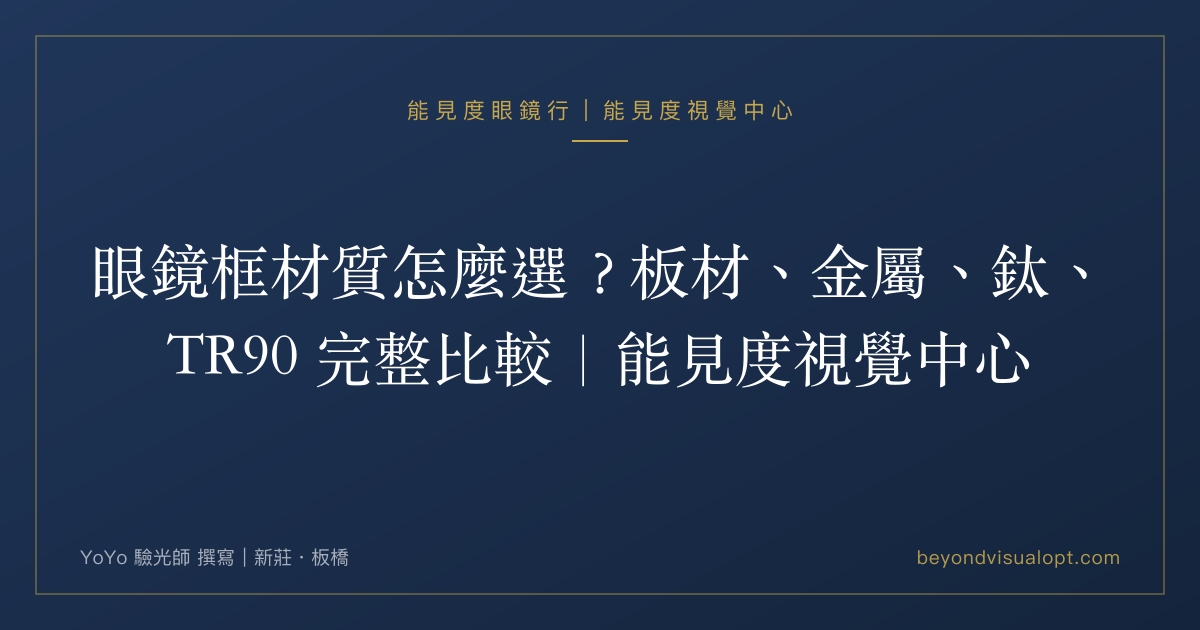
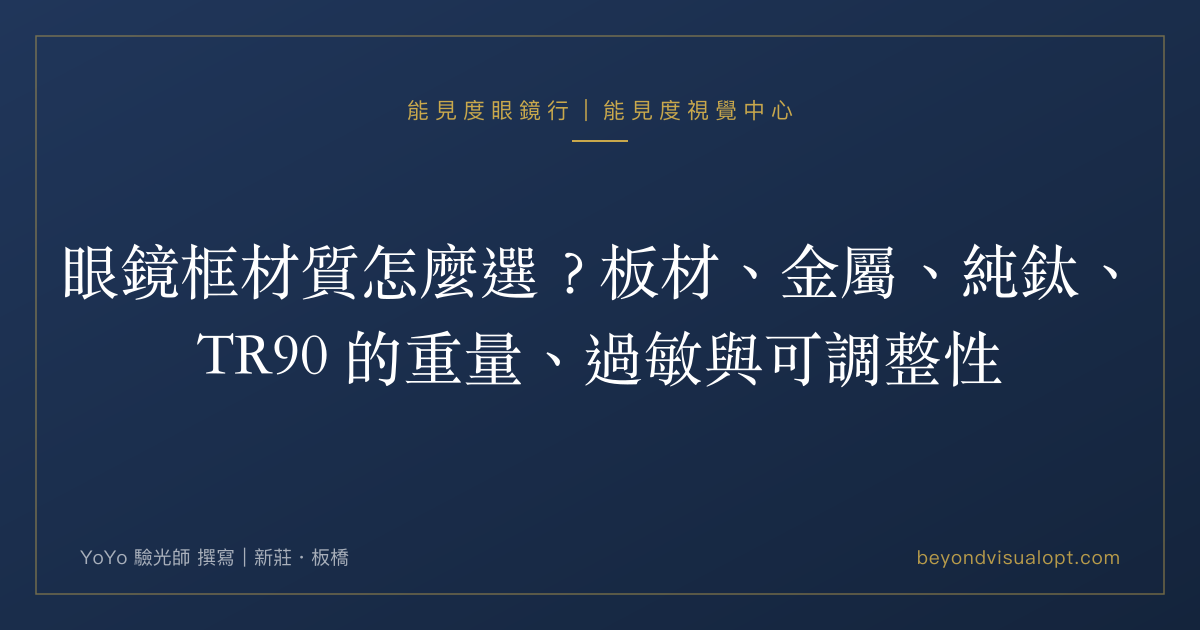
鏡框分類第 1 步：急修＋全站售後口徑統一（官網部→法務）
- 無框鑽孔篇 Cartier 一律標「顧客自帶」＋非代理聲明；/frames/ 品牌卡改「工藝與機能鏡框」不標產地（Sanjiaoti 為深圳品牌）
- 手工調整篇：兩店可互調、頂點距離 2mm 由「將近 25 度」更正為約 7 度（附公式）；seo-guide 同步更正
- 老闆 10-23：本店配的鼻墊螺絲、非本店配的調整一律「個別討論」；/faq/ 中英改寫；「不需要預約」全站刪除
- 「取件後的調整」統一為「取件後的鏡架調整不另外收費」；英文 free 殘留清除
- 中文 8 篇 FAQ 改 ### Q：格式；2 篇 H1 調整

Changed region(s): [[0.1233, 0.5127, 0.8633, 0.6333], [0.0308, 0.3921, 0.925, 0.4825]]

diff --git a/src/content/blog-en/frame-adjustment-handcraft.md b/src/content/blog-en/frame-adjustment-handcraft.md
@@ -54,7 +54,7 @@ This step uses a heat gun paired with specialized pliers to soften the acetate, 
 
 The distance from the back surface of the lens to the corneal apex — the standard value is about 12mm.
 
-High myopia (600 degrees / -6.00D and above) is especially sensitive to vertex distance: a 2mm difference can shift the effective power by nearly 25 degrees. When you pick up your glasses, we confirm this measurement while you're actually wearing them, and fine-tune the nose pads or frame tilt as needed to correct it.
+High myopia (600 degrees / -6.00D and above) is especially sensitive to vertex distance: using Fc = F ÷ (1 − dF), a 2mm difference on a -6.00D lens shifts the effective power by about 0.07D (roughly 7 degrees), and the higher the prescription, the larger the shift from the same distance change. When you pick up your glasses, we confirm this measurement while you're actually wearing them, and fine-tune the nose pads or frame tilt as needed to correct it.
 
 ### Step Five: Temple Bend Point and Angle
 
@@ -96,8 +96,8 @@ Having the right tool for the job is what lets us apply precise force and adjust
 
 ## FAQ
 
-**Q: Is the adjustment free?**
-A: For glasses fitted at Beyond Visual Optometry, follow-up adjustment after pickup is included at no extra charge. If you'd like an adjustment on glasses fitted elsewhere, just ask — we'll help based on the situation.
+**Q: Is there a charge for the adjustment?**
+A: For glasses fitted at Beyond Visual Optometry, frame adjustments after pickup are included at no extra charge. Glasses fitted elsewhere are welcome for an assessment, and how we handle them is discussed case by case.
 
 **Q: My glasses have gone crooked after wearing them for a while — can I bring them back for an adjustment?**
 A: Yes. Frames shifting out of alignment from everyday wear, pressure, or the occasional bump is very common — it doesn't mean your glasses are broken. Bring them in and let us take a look; it can usually be fixed on the spot.
@@ -109,10 +109,10 @@ A: The right tool paired with the right technique won't damage the frame materia
 A: Yes. Bring them in and we'll assess how far we can adjust them and let you know. If the underlying issue turns out to be the prescription or fitting parameters, we'll tell you that directly too.
 
 **Q: Do both the Xinzhuang and Banqiao stores offer adjustments?**
-A: Yes, both locations offer frame adjustment service. For more complex adjustments, we recommend the Xinzhuang store (Biyang Optometry Practice), where our licensed optometry staff can check at the same time whether any fitting parameters need to be addressed together.
+A: Yes, both locations offer frame adjustment service, including more complex adjustments. Glasses fitted at Xinzhuang can be adjusted at Banqiao, and vice versa. If any fitting parameters need to be checked at the same time, the licensed optometry staff at either store can look at them together with you.
 
 ---
 
 The final step, from refraction to pickup, is the moment a pair of glasses actually becomes "your" glasses.
 
-If something feels off about the glasses you're wearing right now, feel free to bring them in and let us take a look — no appointment needed, and they don't need to have been fitted here. A lot of issues can be resolved in five minutes.
+If something feels off about the glasses you're wearing right now, bring them in and let us take a look — they don't need to have been fitted here. A lot of issues can be resolved in five minutes.

diff --git a/src/content/blog/rimless-glasses-guide.md b/src/content/blog/rimless-glasses-guide.md
@@ -1,5 +1,5 @@
 ---
-title: 無框、半框眼鏡優缺點完整解析｜適合誰、要注意什麼｜能見度視覺中心
+title: 無框、半框眼鏡適合我嗎？度數、耐用度與保養先想清楚
 seoTitle: "無框眼鏡適合我嗎？缺點、高度數能不能戴一次看懂｜新莊能見度"
 date: 2026-07-06
 updated: 2026-08-07
@@ -125,19 +125,24 @@ instagram: ""
 
 ## 常見問題
 
-**Q：無框眼鏡容易壞嗎？**
+### Q：無框眼鏡容易壞嗎？
+
 不能一概而論，但它確實是三種結構裡最需要細心對待的。無框靠螺絲穿過鏡片上的鑽孔固定，孔洞周圍是天生的應力集中點。如果你習慣單手摘戴、常隨手亂放、或度數偏高（鏡片較厚、切削較多），出問題的機率就會提高。反過來說，度數不高、又願意雙手好好摘戴、避免高溫的人，無框其實可以用得很久。它不是脆弱，是「挑主人」。
 
-**Q：高度近視適合無框眼鏡嗎？**
+### Q：高度近視適合無框眼鏡嗎？
+
 一般不建議優先選無框。度數愈高，鏡片邊緣愈厚，一來無框把邊緣露在外面，厚起來外觀會打折；二來更關鍵的是：鏡片愈厚、鑽孔周圍要承受的鎖固應力愈大，長期裂孔的風險相對高。高度數的顧客我們通常會建議全框，穩定性和耐用度都更有保障。實際還是要看你的度數、鏡片材質與想要的鏡框大小，到店評估最準。
 
-**Q：半框眼鏡有什麼缺點？**
+### Q：半框眼鏡有什麼缺點？
+
 半框的缺點跟無框不是同一組，主要有四個。最需要有心理準備的是下半圈那條尼龍線：它是消耗品，紫外線、汗水、溫差都會讓它慢慢變鬆，鬆了鏡片可能掉出來，得定期回門市換線。再來，鏡片下緣沒有框保護，碰撞或摔落容易崩角，崩了通常只能重做鏡片。第三，鏡片邊緣要有一定厚度才車得出溝槽，遠視度數較高、邊緣偏薄的鏡片不一定適合；高度近視雖然邊緣夠厚，卻會把那圈厚邊露在外面。最後，溝槽是照著那副鏡框的形狀車的，之後想單獨換鏡片或移植到別副框，彈性都很小。講白一點，半框比無框穩，但比全框更需要人照顧。
 
-**Q：半框的尼龍線多久要換一次？**
+### Q：半框的尼龍線多久要換一次？
+
 沒有固定的時間表，看你怎麼用。常在戶外曝曬、容易流汗、或習慣用含酒精的清潔劑擦拭的人，線會老化得比較快。實務上是看狀態，不是看月份：按壓鏡片下緣感覺到鬆動、鏡片在鏡框裡會輕微移位、或那條線摸起來變硬、顏色轉濁，就該回來換了。換線是例行保養，不代表眼鏡壞掉。平常摘戴時避免只拉單邊、別把眼鏡鏡片朝下擱在桌面，都能讓它撐久一點。
 
-**Q：無框和半框差在哪？**
+### Q：無框和半框差在哪？
+
 最大的差別在「鏡片怎麼被固定」。無框是螺絲直接穿過鏡片上鑽的孔，完全沒有框；半框則是上半部有框，下半部用一條尼龍線嵌進鏡片邊緣的溝槽把鏡片拉住，鏡片本身沒有被鑽孔。所以半框的穩定性通常比無框高、脆弱點也不同，無框最怕鑽孔應力與螺絲鬆動，半框則是要定期留意那條尼龍線的老化。外觀上兩者都比全框輕盈，無框最「隱形」，半框則保留了上緣的線條。
 
 ---

diff --git a/src/content/blog/frame-adjustment-handcraft.md b/src/content/blog/frame-adjustment-handcraft.md
@@ -56,7 +56,7 @@ instagram: ""
 
 鏡片後表面到角膜頂點的距離，標準值約 12mm。
 
-高度近視（600 度以上）對頂點距離特別敏感，距離差個 2mm，有效度數就會跑掉將近 25 度。取鏡時我們會在你配戴狀態下確認這個數值，必要時微調鼻托或鏡框傾角來修正。
+高度近視（600 度以上）對頂點距離特別敏感。換算公式是 Fc＝F ÷（1 − dF）：-6.00D 的鏡片，距離差 2mm，有效度數約差 0.07D，大約 7 度；度數愈高，同樣的距離差造成的落差愈大。換算表在[頂點距離是什麼？高度數配眼鏡為什麼要算它](/blog/vertex-distance/)。取鏡時我們會在你配戴狀態下確認這個數值，必要時微調鼻托或鏡框傾角來修正。
 
 ### 步驟五：腳架彎折角度與位置
 
@@ -98,23 +98,28 @@ instagram: ""
 
 ## 常見問題 FAQ
 
-**Q：調整要另外收費嗎？**
-A：在能見度配的眼鏡，取鏡後的調整服務是包含在內的，不另外收費。非本店配的眼鏡如需調整，請直接詢問，我們會視狀況協助。
+### Q：調整要另外收費嗎？
 
-**Q：眼鏡戴了一段時間歪掉，可以回來調嗎？**
+A：在能見度配的眼鏡，取件後的鏡架調整不另外收費。非本店配的眼鏡，歡迎帶來評估，怎麼處理個別討論。
+
+### Q：眼鏡戴了一段時間歪掉，可以回來調嗎？
+
 A：可以。鏡架因為日常使用、擠壓、意外撞擊而走位是很常見的，這不代表眼鏡壞掉了。回來讓我們看一次，通常當場就能調好。
 
-**Q：調整會不會傷到鏡框？**
+### Q：調整會不會傷到鏡框？
+
 A：正確的工具搭配正確的手法，不會傷到鏡框材質。我們針對不同材質（鈦、板材、TR90、記憶金屬）使用對應的工具與方式。記憶金屬類的鏡框回彈性強，有些調整是物理限制，我們會事先告知。
 
-**Q：我在別的地方配的眼鏡，可以來這裡調整嗎？**
+### Q：我在別的地方配的眼鏡，可以來這裡調整嗎？
+
 A：可以。帶過來讓我們看，評估之後告訴你能調到什麼程度。如果問題在度數或配鏡參數，我們也會直接說。
 
-**Q：新莊、板橋兩間都能做調整嗎？**
-A：是的，兩間門市都提供鏡架調整服務。複雜的調整建議到新莊比泱驗光所，驗光人員可以同步確認配鏡參數是否需要一起處理。
+### Q：新莊、板橋兩間都能做調整嗎？
+
+A：是的，兩間門市都提供鏡架調整服務，比較複雜的調整也是兩店都能處理。新莊配的眼鏡可以到板橋調，板橋配的也可以到新莊調；如果需要同步確認配鏡參數，兩店的驗光人員都可以一起看。
 
 ---
 
 一副眼鏡從驗光到取鏡，最後一個步驟才是讓它真正成為「你的眼鏡」的時刻。
 
-如果你現在戴的眼鏡哪裡不對勁，歡迎帶過來讓我們看一眼，不需要預約，不需要是本店配的。很多問題，五分鐘就能解決。
+如果你現在戴的眼鏡哪裡不對勁，歡迎帶過來讓我們看一眼，不需要是本店配的。很多問題，五分鐘就能解決。

diff --git a/src/content/blog/frame-material-guide.md b/src/content/blog/frame-material-guide.md
@@ -1,5 +1,5 @@
 ---
-title: 眼鏡框材質怎麼選？板材、金屬、鈦、TR90 完整比較｜能見度視覺中心
+title: 眼鏡框材質怎麼選？板材、金屬、純鈦、TR90 的重量、過敏與可調整性
 seoTitle: "TR90 鏡框五個缺點：調不動、斷了修不了｜鏡框材質比較"
 date: 2026-07-06
 updated: 2026-08-07
@@ -142,19 +142,19 @@ TR90 常見霧面或噴塗表面，長期跟皮膚、汗水、鏡布摩擦之後
 
 ## 常見問題
 
-**Q：鈦金屬鏡框值得多花錢嗎？**
+### Q：鈦金屬鏡框值得多花錢嗎？
 
 看你的使用情境。如果你每天配戴超過 8 小時、度數偏高（鏡片本身就重）、容易流汗、或曾經對金屬框過敏，純鈦的輕量、抗汗與低過敏特性會讓你有明顯感受，這筆錢通常花得值得。反過來說，如果你只是偶爾戴、度數不高、預算有限，不鏽鋼或板材框也能戴得很舒服，不一定要一步到位上純鈦。建議到門市把純鈦框和一般框都戴戴看，那個輕量差異手一拿就知道。
 
-**Q：板材鏡框會過敏嗎？**
+### Q：板材鏡框會過敏嗎？
 
 醋酸纖維板材屬於植物性纖維素材料，幾乎不含金屬，是過敏風險最低的材質之一，對常見的鎳過敏族群來說通常是安全的選擇。少數人可能對特定表面塗層或個人膚質差異有輕微反應，但比起含鎳的金屬框，板材的親膚性明顯較好。如果你曾經戴金屬框皮膚發癢，板材或純鈦都是可以優先考慮的方向。（提醒：以上為一般材質常識，若有嚴重或持續的皮膚反應，請諮詢皮膚科醫師。）
 
-**Q：TR90 鏡框有什麼缺點？**
+### Q：TR90 鏡框有什麼缺點？
 
 TR90 最主要的缺點是「調不動」。它是記憶材質，凹過去會回彈，加熱能調的幅度也有限，所以鼻樑寬窄、腳彎角度這些貼合細節，多半在你挑選的當下就決定了，沒辦法像金屬框或板材那樣後天慢慢修。鼻托也多半是一體成型、不能單獨調，鼻樑較低或較塌的人容易下滑。還有表面：霧面或噴塗長期摩擦會磨亮、褪色，又不像板材可以拋光翻新。螺絲是直接鎖進塑料的，長期開合容易鬆動。至於「耐摔」，指的是不容易斷，真的斷了幾乎沒辦法像金屬框那樣焊回來。這些不代表 TR90 不好，只是它適合「選對尺寸就好」的人，不適合需要精細調整的臉型或度數。
 
-**Q：哪種材質的鏡框最輕？**
+### Q：哪種材質的鏡框最輕？
 
 以主流材質來說，TR90 塑鋼和純鈦是最輕量的兩類。TR90 是記憶塑膠，本身密度低、框體可以做得很輕，常用在兒童框和運動框。純鈦則是金屬裡最輕的選擇之一，同時兼具高強度，適合想要「又輕又耐用」的長時間配戴者。醋酸纖維板材相對偏重，尤其大框、厚框更明顯。真正的配戴重量還跟框型大小、鏡片度數厚度有關，建議連同鏡片一起評估。
 

diff --git a/src/content/blog/frame-fit-size.md b/src/content/blog/frame-fit-size.md
@@ -121,15 +121,15 @@ instagram: ""
 
 ## 常見問題
 
-**Q：眼鏡上的那串數字（例如 52□18-140）是什麼意思？**
+### Q：眼鏡上的那串數字（例如 52□18-140）是什麼意思？
 
 那是這副鏡框的尺寸標示，單位是毫米。第一個數字是鏡片寬（單邊鏡片的水平寬度），中間 □ 後面的是鼻樑寬（兩片鏡片之間的間距），最後一個是鏡腿長（鏡腿的總長度）。三個數字合起來，就決定了這副框戴在臉上的大小與位置。
 
-**Q：眼鏡一直往下滑，是尺寸的問題還是可以調？**
+### Q：眼鏡一直往下滑，是尺寸的問題還是可以調？
 
 兩種可能都有。如果鏡框整體偏寬，重心往前，換一副合尺寸的框最根本；如果框本身尺寸沒問題，多半是鼻托和鏡腿彎折需要重新調整。建議直接帶來門市，我們現場看一眼就能判斷是尺寸還是調整的問題，通常當場就能處理。
 
-**Q：怎麼知道鏡框大小適不適合我？**
+### Q：怎麼知道鏡框大小適不適合我？
 
 有幾個現場就能看的重點：鏡框外緣有沒有對齊臉頰兩側、有沒有超出太陽穴、鼻樑處貼不貼合、鏡腿彎折點是不是剛好在耳後。如果自己看不準，最準確的方式是讓驗光人員實際量測——把你的臉寬、鼻樑、瞳距和度數一起考慮進去，才知道哪個尺寸真的適合你。
 
@@ -139,7 +139,7 @@ instagram: ""
 
 看懂數字能幫你做初步判斷，但真正要對到臉、對到度數，還是得實際量測。
 
-歡迎帶著你現在戴的眼鏡，來能見度讓驗光人員現場幫你量臉寬、瞳距與配適，確認尺寸與光學中心是不是對的。不需要預約，也不限本店配的眼鏡。
+歡迎帶著你現在戴的眼鏡，來能見度讓驗光人員現場幫你量臉寬、瞳距與配適，確認尺寸與光學中心是不是對的。不限本店配的眼鏡。
 
 - **新莊店（比泱驗光所）：** 02-2206-6700
 - **板橋店：** 02-2253-1246

diff --git a/src/content/blog/luxury-frame-lens-guide.md b/src/content/blog/luxury-frame-lens-guide.md
@@ -65,19 +65,19 @@ Cartier 的金屬工藝鎖點、Chrome Hearts 的純銀雕花與厚板材、Lind
 
 ## 常見問題
 
-**Q：自己買的精品鏡框可以帶來配鏡片嗎？**
+### Q：自己買的精品鏡框可以帶來配鏡片嗎？
 
 可以。能見度提供自帶鏡框配鏡服務，Cartier、Chrome Hearts、Linda Farrow 等精品框都有處理經驗。流程是先做框況評估與完整驗光，再依框型與度數建議鏡片與加工方式；若評估後判斷不適合拆裝，會直接說明，不勉強施作。
 
-**Q：精品框配鏡片大概多少錢？**
+### Q：精品框配鏡片大概多少錢？
 
 鏡片費用依折射率與功能而定，精品框的加工依框型結構現場評估報價。建議帶框到店，評估後一次把鏡片與加工費用講清楚，不會事後加價。
 
-**Q：太陽眼鏡框可以換成度數鏡片嗎？**
+### Q：太陽眼鏡框可以換成度數鏡片嗎？
 
 多數可以。太陽框換度數片要注意框面彎度（高彎度框對高度數不友善）與鏡片染色需求，驗光人員會依你的度數評估這支框適不適合，以及要選哪種鏡片才能兼顧外觀與光學。
 
-**Q：Lindberg 鏡腳鬆了、ic! berlin 彈片變形，你們能修嗎？**
+### Q：Lindberg 鏡腳鬆了、ic! berlin 彈片變形，你們能修嗎？
 
 可以。無螺絲與彈片結構的調整維修是能見度的專長之一，非本店購買的鏡架也歡迎帶來。修不修得了、怎麼修、需不需要送件，評估後當面說明。
 

diff --git a/src/content/blog/frame-face-shape.md b/src/content/blog/frame-face-shape.md
@@ -109,15 +109,15 @@ instagram: ""
 
 ## 常見問題
 
-**Q：圓臉適合什麼眼鏡框？**
+### Q：圓臉適合什麼眼鏡框？
 
 圓臉建議選有角度、稜角分明的框，例如方框、飛行框、多邊形框，用直線條去平衡臉頰的圓潤感，讓臉看起來更立體、更有輪廓。要避開的是大圓框和無框圓形鏡片，這類框會強化原本的圓潤感，臉容易顯得更圓。
 
-**Q：選鏡框要挑跟臉型相似還是相反？**
+### Q：選鏡框要挑跟臉型相似還是相反？
 
 原則上要「相反」。鏡框的線條和臉型對比，才能達到平衡修飾的效果：圓臉配帶角度的框、方臉配圓潤的框。如果選跟臉型相似的框（圓臉配圓框、方臉配方框），反而會放大臉型本身的特徵。這就是挑框最核心的「對比原則」。
 
-**Q：選鏡框最重要的是什麼？**
+### Q：選鏡框最重要的是什麼？
 
 如果只能記一件事，就是「比例」，鏡框大小要對得上五官比例、鏡框寬度要對齊臉寬。臉型決定框的線條方向，比例決定框的大小份量，兩者到位，鏡框就對了一大半。但別忘了，如果你是高度數或要配漸進多焦點，鏡框還必須符合鏡片的光學需求，這時候現場由驗光人員一起評估最保險。
 

diff --git a/src/content/blog-en/progressive-lens-dizzy.md b/src/content/blog-en/progressive-lens-dizzy.md
@@ -82,7 +82,7 @@ Beyond horizontal PD, progressives require the **fitting height** — the vertic
 
 A frame that has gone crooked (uneven nose pads, asymmetric temple tension) tilts the lenses and shifts the optical centers away from their designed positions. This is the main reason behind "the glasses were fine at first, but I started getting dizzy a few months later."
 
-> **What to do:** Return to the store and ask for your PD and fitting height to be re-measured while wearing the glasses, and have the optometrist adjust the frame's levelness, nose pads, and temple tension. This adjustment is free — many people simply don't know they can ask for it.
+> **What to do:** Return to the store and ask for your PD and fitting height to be re-measured while wearing the glasses, and have the optometrist adjust the frame's levelness, nose pads, and temple tension. For glasses fitted at Beyond Visual, frame adjustments after pickup are included at no extra charge — many people simply don't know they can ask for it.
 
 ---
 

diff --git a/src/content/blog/kids-glasses-process.md b/src/content/blog/kids-glasses-process.md
@@ -120,7 +120,7 @@ keywords: "兒童眼鏡怎麼配,兒童配鏡流程,兒童驗光,學童配眼鏡
 
 ### Q：孩子戴眼鏡後鼻樑有紅印，要換鏡框嗎？
 
-先不用急著換。鼻樑上的紅印，常見的原因是鼻托角度沒有貼平鼻樑，眼鏡的重量集中壓在一小塊皮膚上；鏡腳太長、眼鏡一直往下滑，也會讓鼻托壓得更深。這兩種多半調鼻托與鏡腳就能處理。鏡框尺寸明顯不合孩子的臉，才需要考慮換框。在能見度配的眼鏡，取件後的調整不另外收費。
+先不用急著換。鼻樑上的紅印，常見的原因是鼻托角度沒有貼平鼻樑，眼鏡的重量集中壓在一小塊皮膚上；鏡腳太長、眼鏡一直往下滑，也會讓鼻托壓得更深。這兩種多半調鼻托與鏡腳就能處理。鏡框尺寸明顯不合孩子的臉，才需要考慮換框。在能見度配的眼鏡，取件後的鏡架調整不另外收費。
 
 ### Q：兒童驗光為什麼不能直接用電腦驗光的度數配眼鏡？
 
